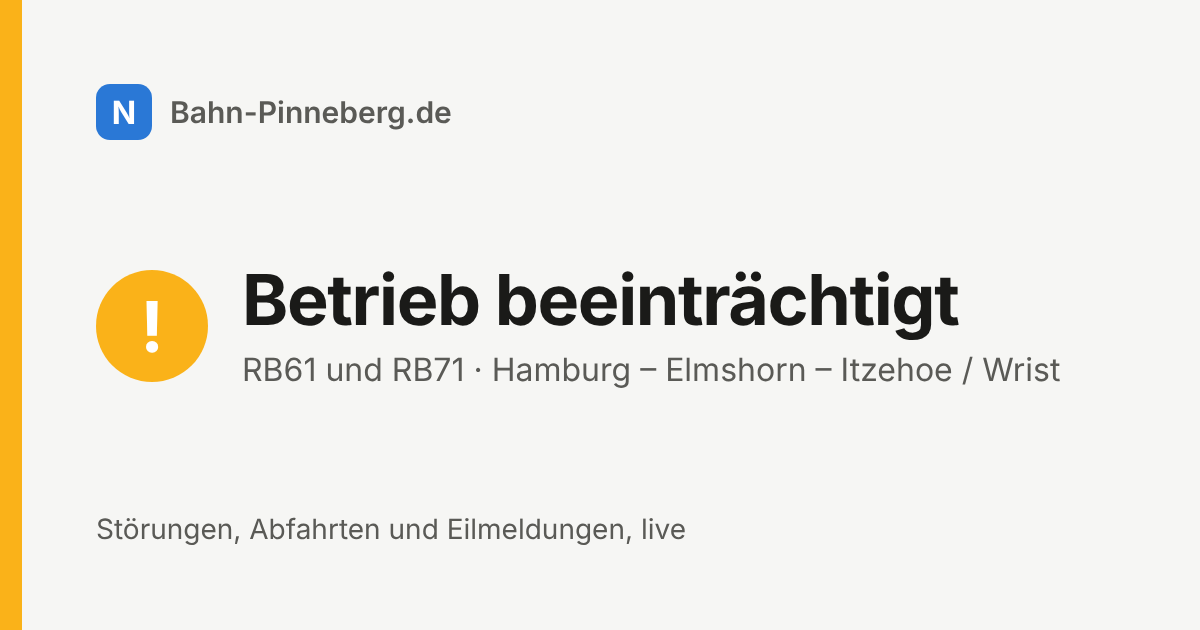
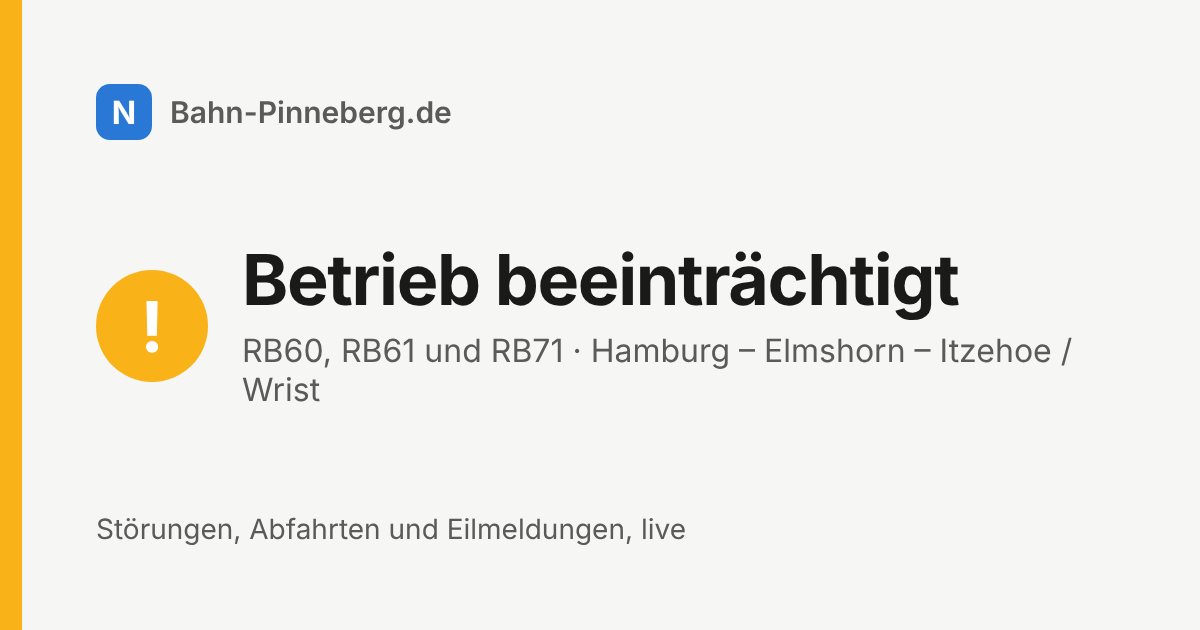
RB60 in Texten und HVV-Meldungen
Titel, Beschreibungen, Footer, Manifest, FAQ, README, lage.md und die
Vorschaubilder nennen jetzt RB60, RB61 und RB71. GF_LINIEN fragt beim
HVV auch die RB60 ab; die S3-Karte wertet weiter nur S3-Meldungen.

Claude-Session: https://claude.ai/code/session_01KhF188QwqAjarw5KrHzToa

Changed region(s): [[0.185, 0.3921, 0.8942, 0.6333]]

diff --git a/dev/og/template.html b/dev/og/template.html
@@ -19,7 +19,7 @@ body { width: 1200px; height: 630px; font-family: Inter, system-ui, sans-serif; 
 <div class="bar"></div>
 <div class="wrap">
   <div class="brand"><div class="n">N</div>Bahn-Pinneberg.de</div>
-  <div class="status"><div class="icon" id="icon">✓</div><div><div class="title" id="title">Keine Störung auf der Strecke</div><div class="sub">RB61 und RB71 · Hamburg – Elmshorn – Itzehoe / Wrist</div></div></div>
+  <div class="status"><div class="icon" id="icon">✓</div><div><div class="title" id="title">Keine Störung auf der Strecke</div><div class="sub">RB60, RB61 und RB71 · Hamburg – Elmshorn – Itzehoe / Wrist</div></div></div>
   <div class="foot"><span>Störungen, Abfahrten und Eilmeldungen, live</span></div>
 </div>
 </body></html>

diff --git a/faq/index.php b/faq/index.php
@@ -19,7 +19,7 @@ $faq = [
     ['Woher kommen die Daten?',
      'Abfahrten, Gleise und Verspätungen stammen vom Stationsmonitor der Nordbahn, Eilmeldungen von nordbahn.de, Infrastrukturstörungen von strecken-info.de der DB InfraGO. Die S-Bahn S3 und die HVV-Meldungen kommen über die Schnittstelle des HVV (Geofox). Abfahrten und S3 werden jede Minute geladen, Störungen und Eilmeldungen alle zwei Minuten.'],
     ['Was zeigt die Karte „S3 Pinneberg – Hamburg“?',
-     'Die S3 ist der Plan B, wenn die RB nur bis Pinneberg fährt oder ausfällt. Die Karte wertet die nächsten S3-Züge der kommenden Stunde ab Pinneberg Richtung Hamburg und ab Hamburg Hbf Richtung Pinneberg aus: Ausfälle und Verspätungen ab fünf Minuten zählen, ab einem Viertel betroffener Züge heißt es „S3 gestört“, darunter „S3 beeinträchtigt“. Eine ungeplante HVV-Meldung zur S3, die gerade gilt, setzt die Karte ebenfalls auf „gestört“; Meldungen zu RB61 und RB71 zählen hier nicht. Welcher Stadtbahnhof gilt, Altona, Stadthausbrücke, Jungfernstieg oder Hauptbahnhof, lässt sich im S3-Abschnitt wählen und wird im Browser gemerkt. Geplante Meldungen wie Bauarbeiten färben die Karte nicht und stehen nicht auf der Startseite; läuft deswegen eine S3 nicht, zeigen das die Abfahrten und die Karte. Ungeplante HVV-Meldungen zu S3, RB61 und RB71, die gerade gelten, stehen unter „Aktuelle Meldungen“.'],
+     'Die S3 ist der Plan B, wenn die RB nur bis Pinneberg fährt oder ausfällt. Die Karte wertet die nächsten S3-Züge der kommenden Stunde ab Pinneberg Richtung Hamburg und ab Hamburg Hbf Richtung Pinneberg aus: Ausfälle und Verspätungen ab fünf Minuten zählen, ab einem Viertel betroffener Züge heißt es „S3 gestört“, darunter „S3 beeinträchtigt“. Eine ungeplante HVV-Meldung zur S3, die gerade gilt, setzt die Karte ebenfalls auf „gestört“; Meldungen zu RB60, RB61 und RB71 zählen hier nicht. Welcher Stadtbahnhof gilt, Altona, Stadthausbrücke, Jungfernstieg oder Hauptbahnhof, lässt sich im S3-Abschnitt wählen und wird im Browser gemerkt. Geplante Meldungen wie Bauarbeiten färben die Karte nicht und stehen nicht auf der Startseite; läuft deswegen eine S3 nicht, zeigen das die Abfahrten und die Karte. Ungeplante HVV-Meldungen zu S3, RB60, RB61 und RB71, die gerade gelten, stehen unter „Aktuelle Meldungen“.'],
     ['Welche Linien und Bahnhöfe werden angezeigt?',
      'Die RB61 Hamburg – Itzehoe, die RB71 Hamburg – Wrist und die Verstärkerzüge der RB60. Als eigener Bahnhof lässt sich jeder Halt zwischen Pinneberg und Itzehoe bzw. Wrist wählen, die Auswahl bleibt im Browser gespeichert.'],
     ['Was bedeuten „ab Hbf“, „ab Dammtor“, „ab Altona“ und „ab Pinneberg“?',
@@ -47,7 +47,7 @@ $jsonLd = [
     }, $faq),
 ];
 $title = 'Häufige Fragen – Bahn-Pinneberg.de';
-$description = 'Wie Bahn-Pinneberg.de Störungen, Abfahrten und Eilmeldungen der RB61 und RB71 ermittelt, woher die Daten kommen und wie Benachrichtigungen funktionieren.';
+$description = 'Wie Bahn-Pinneberg.de Störungen, Abfahrten und Eilmeldungen der RB60, RB61 und RB71 ermittelt, woher die Daten kommen und wie Benachrichtigungen funktionieren.';
 ?>
 <!DOCTYPE html>
 <html lang="de">

diff --git a/api/geofox.php b/api/geofox.php
@@ -1,7 +1,7 @@
 <?php
 /**
  * HVV-Schnittstelle Geofox GTI: S-Bahn S3 zwischen Pinneberg und Hamburg sowie
- * HVV-Meldungen zu S3, RB61 und RB71. Reine Bibliothek, gibt nichts aus.
+ * HVV-Meldungen zu S3, RB60, RB61 und RB71. Reine Bibliothek, gibt nichts aus.
  *
  * Zugang (Nutzer, Passwort) steht in config.php; ohne Zugang ist alles aus
  * (gf_aktiv() false, Karte und Abschnitt auf der Startseite fehlen).
@@ -35,7 +35,7 @@ const GF_S3_SERVICE_ID = 'SBH:S3_SBH_SBAHNS'; // Linien-ID der S3 in der GTI (au
 const GF_MELDUNG_AUSSCHLUSS = '/aufzug|aufzüge|fahrstuhl|rolltreppe|\\blift\\b|barrierefrei|fahrtreppe|elevator|escalator|erreichbarkeit der station/iu';
 // S3-Stationen zwischen Pinneberg und der Innenstadt. Eine S3-Meldung zaehlt nur, wenn
 // ihr Abschnitt hier beginnt oder endet; Meldungen zu Stade, Buxtehude oder Neugraben
-// betreffen Pendler aus Pinneberg nicht. RB61 und RB71 zaehlen immer.
+// betreffen Pendler aus Pinneberg nicht. RB60, RB61 und RB71 zaehlen immer.
 const GF_S3_KORRIDOR = [
     'pinneberg', 'thesdorf', 'halstenbek', 'krupunder', 'elbgaustrasse', 'eidelstedt', 'stellingen',
     'langenfelde', 'diebsteich', 'holstenstrasse', 'bahrenfeld', 'ottensen', 'altona', 'koenigstrasse',
@@ -44,7 +44,7 @@ const GF_S3_KORRIDOR = [
 const GF_DELAY_MIN    = 5;         // ab dieser Verspaetung (Minuten) zaehlt ein Zug als betroffen
 const GF_ALERT_ANTEIL = 0.25;      // ab diesem Anteil "S3 gestoert"
 const GF_LINIE        = 'S3';
-const GF_LINIEN       = ['S3', 'RB61', 'RB71'];
+const GF_LINIEN       = ['S3', 'RB60', 'RB61', 'RB71'];
 const GF_MELDUNGEN_MAX = 20;
 const GF_STATIONEN_TTL = 86400;    // Stations-IDs einmal am Tag auffrischen
 const GF_PINNEBERG = 'Pinneberg';
@@ -562,7 +562,7 @@ function gf_status(array $abfahrten, array $meldungen, $now)
         }
     }
     $betroffen = $ausfaelle + $verspaetet;
-    // Nur ungeplante, jetzt gueltige Meldungen zur S3 selbst; Meldungen zu RB61/RB71
+    // Nur ungeplante, jetzt gueltige Meldungen zur S3 selbst; Meldungen zu RB60/RB61/RB71
     // gehoeren zur Nordbahn und stehen nur in der Liste "Letzte HVV-Meldungen"
     $akut = [];
     foreach ($meldungen as $m) {

diff --git a/llms.php b/llms.php
@@ -27,7 +27,7 @@ echo "- Bahnhofskürzel: " . implode(', ', $bahnhoefe) . ". Hamburg: AH = Hambur
 echo "## Daten als JSON\n\n";
 echo "- [api/data](" . $site . "/api/data): Lagebild mit `stoerungen` (aktive Infrastrukturstörungen mit `titel`, `text`, `ki_titel`, `ki_text` in Alltagssprache, `beginn`, `ende`, `abgelaufen`), `eilmeldungen_live` (aktuell auf nordbahn.de), `eilmeldungen` (Historie) und `stoerungen_verlauf` (Logbuch mit `first_seen`, `last_seen`).\n";
 echo "- [api/abfahrten?bhf=APD](" . $site . "/api/abfahrten?bhf=APD): nächste Züge in `richtungen.hin` (Heimat → Hamburg) und `richtungen.rueck` (Hamburg → Heimat). Je Zug `zeit` (ISO 8601, mit Verspätung), `verspaetung` (Minuten), `linie`, `ziel`, `gleis`, `gleis_plan`, `ausfall`, `hinweis`, `ab` (Hbf, Dammtor oder Altona), `teil` (Teilausfall: `art` endet/beginnt mit `name`), `ersatz` (Ersatzabfahrt bei Ausfall).\n";
-echo "- [api/s3](" . $site . "/api/s3): S-Bahn S3 zwischen Pinneberg und Hamburg Hbf aus der HVV-Schnittstelle (Geofox): `s3.level`, `s3.title`, `s3.detail` (ok, warn, alert), `s3.abfahrten` (zeit, ist, ziel, ab, delay_min, ausfall, gleis), `s3.meldungen` (HVV-Meldungen zu S3, RB61 und RB71 mit titel, text, geplant, aktiv, von, bis, linien). `ok` ist false, wenn die Schnittstelle nicht eingerichtet oder nicht erreichbar ist.\n";
+echo "- [api/s3](" . $site . "/api/s3): S-Bahn S3 zwischen Pinneberg und Hamburg Hbf aus der HVV-Schnittstelle (Geofox): `s3.level`, `s3.title`, `s3.detail` (ok, warn, alert), `s3.abfahrten` (zeit, ist, ziel, ab, delay_min, ausfall, gleis), `s3.meldungen` (HVV-Meldungen zu S3, RB60, RB61 und RB71 mit titel, text, geplant, aktiv, von, bis, linien). `ok` ist false, wenn die Schnittstelle nicht eingerichtet oder nicht erreichbar ist.\n";
 echo "- Beide Endpunkte sind öffentlich, ohne Schlüssel, nur lesend. Bitte nicht häufiger als einmal pro Minute abrufen.\n\n";
 
 echo "## Seiten\n\n";

diff --git a/eilmeldungen/index.php b/eilmeldungen/index.php
@@ -23,8 +23,8 @@ $items = $blatt['items'];
 $basis = SITE_URL . '/eilmeldungen/';
 $pageUrl = nb_seite_url($basis, $blatt['seite']);
 
-$title = 'Eilmeldungen der Nordbahn – Archiv RB61/RB71 Hamburg, Pinneberg, Elmshorn, Itzehoe, Wrist';
-$description = 'Alle ' . $anzahl . ' Eilmeldungen der Nordbahn zu Zugausfällen und Verspätungen auf RB61 und RB71'
+$title = 'Eilmeldungen der Nordbahn – Archiv RB60/RB61/RB71 Hamburg, Pinneberg, Elmshorn, Itzehoe, Wrist';
+$description = 'Alle ' . $anzahl . ' Eilmeldungen der Nordbahn zu Zugausfällen und Verspätungen auf RB60, RB61 und RB71'
     . ($seit ? ' seit dem ' . date('d.m.Y', $seit) : '') . ', nach Tagen sortiert, mit Pendler-Titel und Link zur Originalmeldung.';
 if ($blatt['seite'] > 1) {
     $title .= ' – Seite ' . $blatt['seite'];
@@ -87,7 +87,7 @@ $jsonLd = [
 	<div class="page-head">
 		<div>
 			<h1>Eilmeldungen</h1>
-			<p class="page-head__lead">Alle Eilmeldungen der Nordbahn zu Zugausf&auml;llen und Verspätungen auf RB61 und RB71<?php if ($seit): ?>, erfasst seit dem <?= nb_e(date('d.m.Y', $seit)) ?><?php endif; ?>. Verlinkt ist, was noch auf nordbahn.de steht.</p>
+			<p class="page-head__lead">Alle Eilmeldungen der Nordbahn zu Zugausf&auml;llen und Verspätungen auf RB60, RB61 und RB71<?php if ($seit): ?>, erfasst seit dem <?= nb_e(date('d.m.Y', $seit)) ?><?php endif; ?>. Verlinkt ist, was noch auf nordbahn.de steht.</p>
 		</div>
 	</div>
 

diff --git a/index.php b/index.php
@@ -79,9 +79,9 @@ $assetVersion = max((int) @filemtime(__DIR__ . '/dashboard.js'), (int) @filemtim
 $stoerungSatz = $aktiv > 0
     ? $aktiv . ' aktive Störung' . ($aktiv === 1 ? '' : 'en') . ' auf der Nordbahn-Strecke Hamburg – Elmshorn – Itzehoe/Wrist.'
     : 'Störungen heute auf der Nordbahn-Strecke Hamburg – Elmshorn – Itzehoe/Wrist.';
-$title = 'Bahn-Pinneberg.de – Störungen und Abfahrten RB61/RB71 ab Pinneberg, Elmshorn, Itzehoe und Wrist';
-$description = $stoerungSatz . ' Dazu die nächsten Züge ab Pinneberg, Prisdorf, Tornesch, Elmshorn, Itzehoe oder Wrist nach Hamburg und zurück sowie die letzten Eilmeldungen zu RB61 und RB71. Live, alle zwei Minuten aktualisiert.';
-$lead = 'Störungen heute, nächste Züge und Eilmeldungen der RB61 und RB71 zwischen Hamburg, Elmshorn, Itzehoe und Wrist.';
+$title = 'Bahn-Pinneberg.de – Störungen und Abfahrten RB60/RB61/RB71 ab Pinneberg, Elmshorn, Itzehoe und Wrist';
+$description = $stoerungSatz . ' Dazu die nächsten Züge ab Pinneberg, Prisdorf, Tornesch, Elmshorn, Itzehoe oder Wrist nach Hamburg und zurück sowie die letzten Eilmeldungen zu RB60, RB61 und RB71. Live, alle zwei Minuten aktualisiert.';
+$lead = 'Störungen heute, nächste Züge und Eilmeldungen der RB60, RB61 und RB71 zwischen Hamburg, Elmshorn, Itzehoe und Wrist.';
 
 $author = ['@type' => 'Person', 'name' => 'Benjamin Neske', 'url' => 'https://bensch777.de/'];
 $jsonLd = [

diff --git a/tests/nordbahn/GeofoxTest.php b/tests/nordbahn/GeofoxTest.php
@@ -176,7 +176,7 @@ function test_s3_meldung_normalisierung()
     $m = gf_announcements($stur, $now, GF_LINIEN, t_gf_zugang());
     t_eq(['X'], array_column($m, 'id'), 'zweite Anfrageform liefert');
     t_eq(2, count($bodies), 'nur bis zur ersten brauchbaren Antwort');
-    t_eq(['S3', 'RB61', 'RB71'], $bodies[1]['names'], 'zweite Form nur mit Linien');
+    t_eq(['S3', 'RB60', 'RB61', 'RB71'], $bodies[1]['names'], 'zweite Form nur mit Linien');
 }
 
 function test_s3_cache_und_stale()
@@ -299,7 +299,7 @@ function test_s3_meldungen_echte_antwort_korridor()
     t_eq(['12.10-25.10. Fahrplanänderungen und Ersatzverkehr', '26.10.-02.11. alle Züge fahren ab/bis Altona, EV'], array_column($m, 'titel'), 'nur Nordbahn-Meldungen; S3 bei Stade/Neugraben, Aufzuege und Erreichbarkeit raus');
     t_eq(true, $m[0]['aktiv'], 'laufende Bauarbeiten aktiv');
     t_eq(true, $m[0]['geplant'], 'geplant');
-    t_eq(['RB61', 'RB71'], array_values(array_intersect($m[0]['linien'], GF_LINIEN)), 'Linien aus locations');
+    t_eq(['RB60', 'RB61', 'RB71'], array_values(array_intersect($m[0]['linien'], GF_LINIEN)), 'Linien aus locations');
     t_eq('2026-10-11T22:00:00Z', $m[0]['von'], 'Beginn aus validities mit +0200');
     t_eq(true, strpos($m[0]['link'], 'https://www.nordbahn.de/') === 0, 'Link zur Meldung');
     t_eq(false, $m[1]['aktiv'], 'Altona-Sperrung noch nicht gueltig');

diff --git a/changelog/index.php b/changelog/index.php
@@ -15,6 +15,7 @@ $assetVersion = (int) @filemtime(__DIR__ . '/../dashboard.css');
 
 $changelog = [
     ['2026-10-23', [
+        ['RB60 überall genannt', 'Titel, Beschreibungen, Footer und Vorschaubilder nennen jetzt RB60, RB61 und RB71. Die HVV-Meldungen umfassen auch die RB60.'],
         ['Kompakte Lage auf dem Handy', 'Läuft alles, steht oben nur noch eine Karte „Alles planmäßig“ statt vier grüner Karten, und „Aktuelle Meldungen“ bleibt ausgeblendet. Ist etwas los, erscheinen nur die betroffenen Karten groß, die übrigen fasst eine Zeile wie „Eilmeldungen, Nordbahn und S3 ok“ zusammen. So stehen die Abfahrten deutlich weiter oben.'],
         ['Aufgeräumter Footer', 'Im Footer stehen „Aktuelle Lage“, „Alle Eilmeldungen“ und „Alle Störungen“ nicht mehr. Zur Startseite führt der Name oben und unten, die beiden Archive sind unter „Wichtige Meldungen“ direkt unter der Einleitung verlinkt.'],
         ['Neuer Name: Bahn-Pinneberg.de', 'Die Seite heißt jetzt wie ihre Adresse. Im Header steht nur noch „Bahn-Pinneberg.de“ statt „Nordbahn Monitor · bahn-pinneberg.de“, ebenso in Seitentiteln, Footer, Benachrichtigungen, App-Name und Vorschaubildern. Auf dem Homescreen heißt das Symbol „Bahn PI“.'],

diff --git a/stoerungen/index.php b/stoerungen/index.php
@@ -24,7 +24,7 @@ $items = $blatt['items'];
 $basis = SITE_URL . '/stoerungen/';
 $pageUrl = nb_seite_url($basis, $blatt['seite']);
 
-$title = 'Infrastrukturstörungen der Nordbahn – Archiv RB61/RB71 Hamburg, Pinneberg, Elmshorn, Itzehoe, Wrist';
+$title = 'Infrastrukturstörungen der Nordbahn – Archiv RB60/RB61/RB71 Hamburg, Pinneberg, Elmshorn, Itzehoe, Wrist';
 $description = 'Alle ' . $anzahl . ' Infrastrukturstörungen auf der Nordbahn-Strecke Hamburg – Elmshorn – Itzehoe / Wrist'
     . ($seit ? ' seit dem ' . date('d.m.Y', $seit) : '') . ', nach Tagen sortiert, mit Beginn, Ende, Dauer und Pendler-Text aus den Meldungen von strecken-info.de.';
 if ($blatt['seite'] > 1) {

diff --git a/news/index.php b/news/index.php
@@ -24,7 +24,7 @@ $items = $blatt['items'];
 $basis = SITE_URL . '/news/';
 $pageUrl = nb_seite_url($basis, $blatt['seite']);
 
-$title = 'Wichtige Meldungen zur Nordbahn RB61/RB71 – Störungen, Ersatzverkehr, Sperrungen';
+$title = 'Wichtige Meldungen zur Nordbahn RB60/RB61/RB71 – Störungen, Ersatzverkehr, Sperrungen';
 $description = 'Die ' . $anzahl . ' wichtigen Meldungen zur Nordbahn zwischen Hamburg, Pinneberg, Elmshorn, Itzehoe und Wrist'
     . ($seit ? ' seit dem ' . date('d.m.Y', $seit) : '') . ': größere Störungen, Ersatzverkehr, Sperrungen und Bauarbeiten, ohne einzelne kurzfristige Zugausfälle.';
 if ($blatt['seite'] > 1) {

diff --git a/statistik/index.php b/statistik/index.php
@@ -48,7 +48,7 @@ uasort($zugRueck, function ($a, $b) {
 });
 $zugTage = (int) ($zugstat['beobachtete_tage'] ?? 0);
 
-$title = 'Störungsstatistik Nordbahn RB61/RB71 – Hamburg, Pinneberg, Elmshorn, Itzehoe, Wrist';
+$title = 'Störungsstatistik Nordbahn RB60/RB61/RB71 – Hamburg, Pinneberg, Elmshorn, Itzehoe, Wrist';
 $description = $t30['n'] . ' Infrastruktur-Störung' . ($t30['n'] === 1 ? '' : 'en') . ' in den letzten 30 Tagen auf der Nordbahn-Strecke'
     . ($t30['n'] ? ', zusammen ' . nb_dauer($t30['dauer']) : '') . '. Verlauf nach Kalenderwochen und häufigste Ursachen, aus den Meldungen von strecken-info.de.';
 $jsonLd = [

diff --git a/inc/footer.php b/inc/footer.php
@@ -8,7 +8,7 @@
 	<div class="wrap site-foot__grid">
 		<div class="site-foot__about">
 			<a class="site-foot__brand" href="<?= $root ?>">Bahn-Pinneberg.de</a>
-			<p>St&ouml;rungen, Abfahrten und Eilmeldungen der RB61 und RB71 zwischen Hamburg, Elmshorn, Itzehoe und Wrist. Ein privates Projekt, keine offizielle Seite der Nordbahn.</p>
+			<p>St&ouml;rungen, Abfahrten und Eilmeldungen der RB60, RB61 und RB71 zwischen Hamburg, Elmshorn, Itzehoe und Wrist. Ein privates Projekt, keine offizielle Seite der Nordbahn.</p>
 		</div>
 		<div>
 			<h2 class="site-foot__head">Kan&auml;le</h2>
